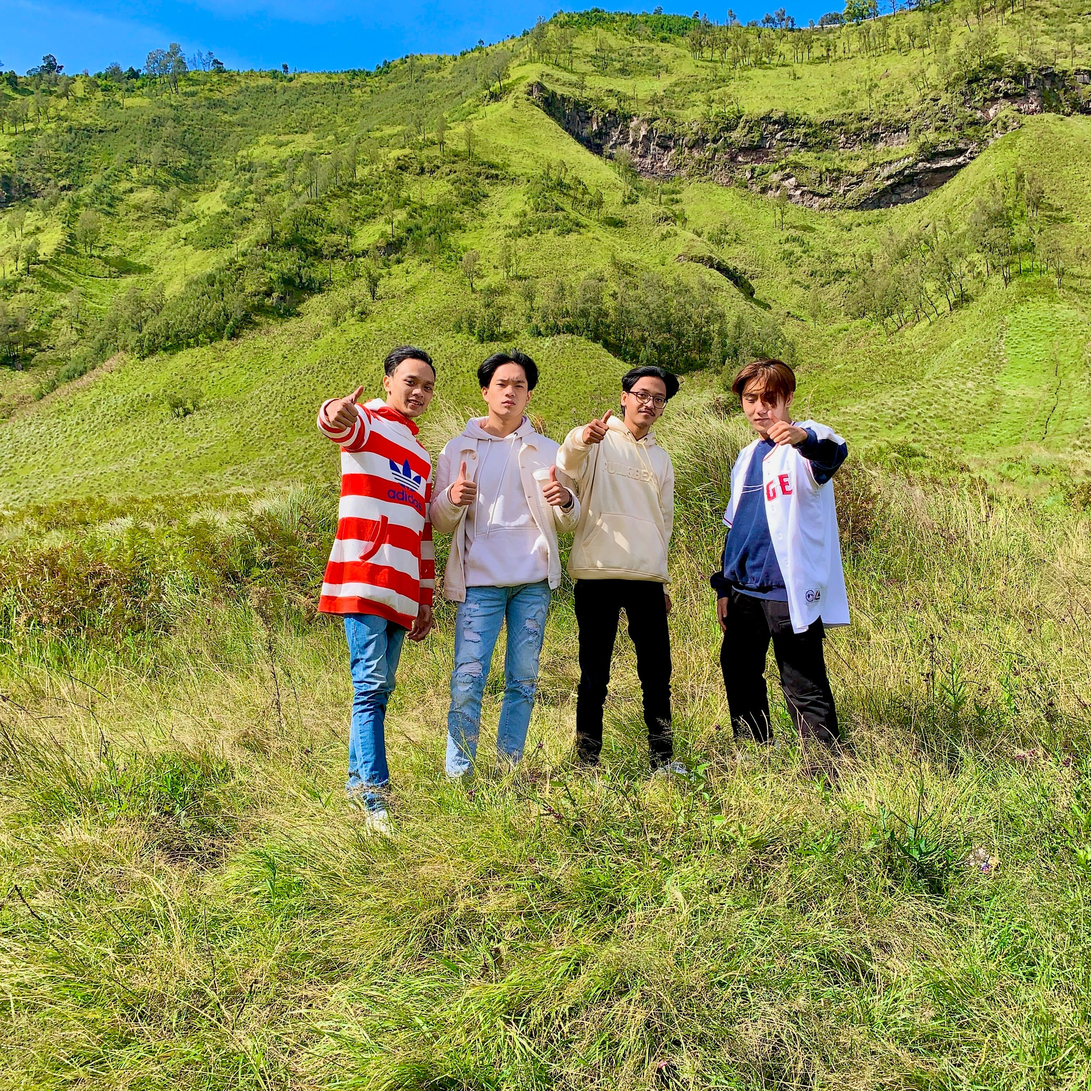
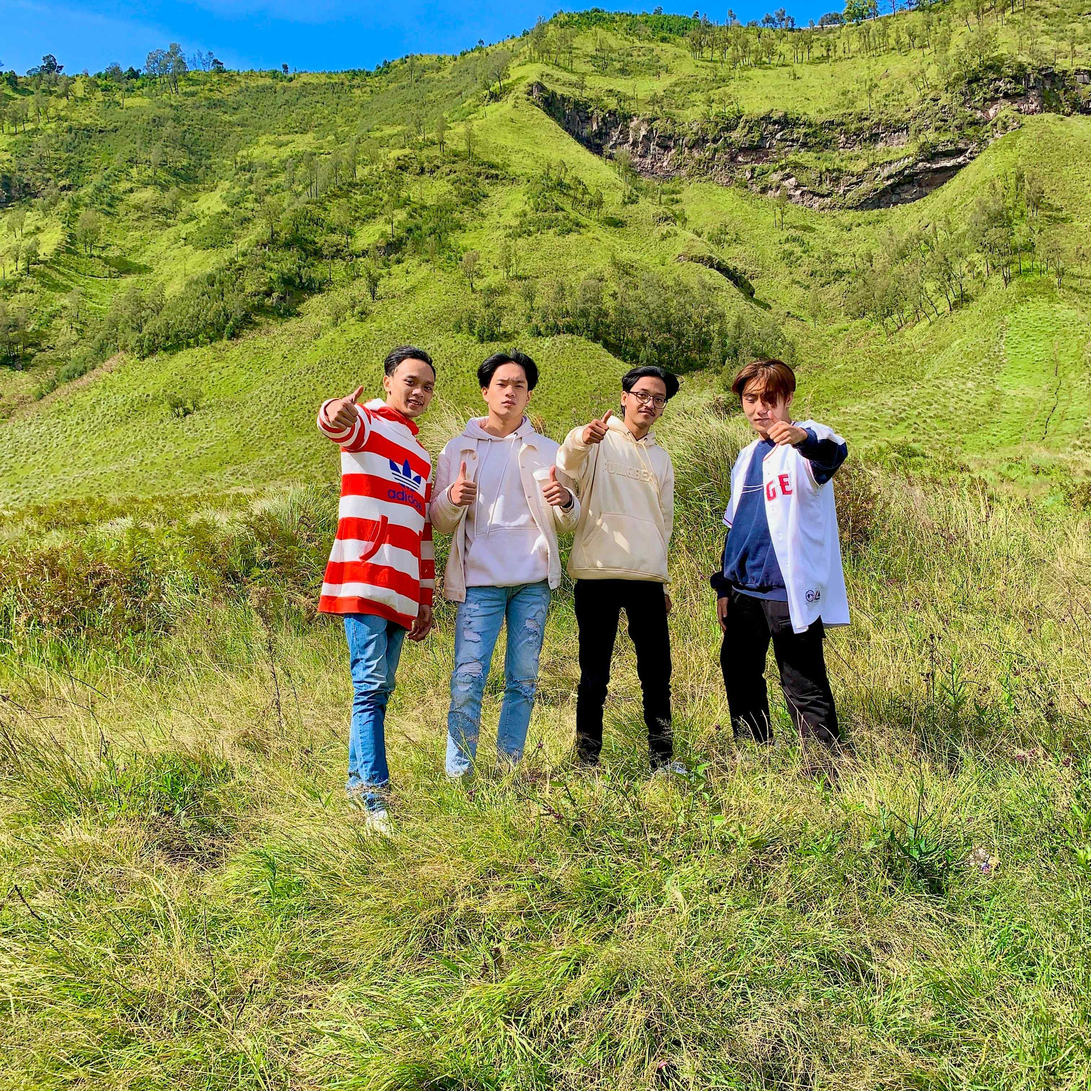
compress image and update content

diff --git a/index.html b/index.html
@@ -140,7 +140,7 @@
 
             <div class="w-full bg-white shadow flex flex-col my-4 p-6">
                 <p class="text-xl font-semibold pb-5">About Me</p>
-                <p class="pb-2">watssup guys kenalin aku kevin. pada kesempatan kali ini aku mau bagikan behind of stories or my daily life. maaf kalo isi blogku masih jelek banget atau masih basic banget karena ini adalah tugas kuliahku untuk membuat blog. thank you guys semoga betah melihat isi blogku 😁✌</p>
+                <p class="pb-2">hello guys kenalin aku kevin. pada kesempatan kali ini aku mau bagikan behind of stories or my daily life. maaf kalo isi blogku masih jelek banget atau masih basic banget karena ini adalah tugas kuliahku untuk membuat blog. thank you guys semoga betah melihat isi blogku 😁✌</p>
                 <a href="https://www.instagram.com/kevinbaleee/" target="_blank" class="w-full bg-blue-800 text-white font-bold text-sm uppercase rounded hover:bg-blue-700 flex items-center justify-center px-2 py-3 mt-4">
                     Get to know me
                 </a>
